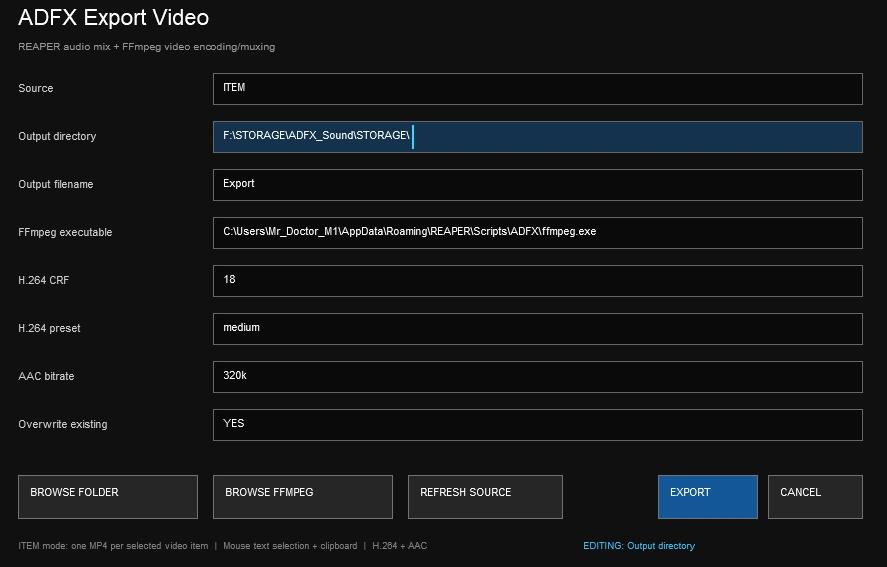
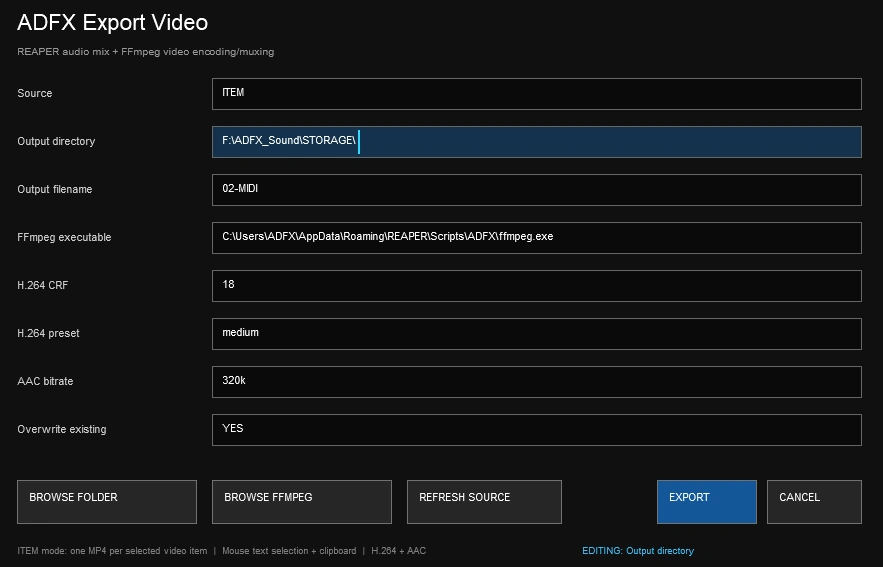
Image render path update

diff --git a/about.html b/about.html
@@ -91,15 +91,16 @@
                                 <div class="row sqs-row">
                                     <div class="col sqs-col-9 span-9">
                                         <div class="sqs-block image-block sqs-block-image" data-aspect-ratio="1.2687427912341407" id="block-yui_3_17_2_1_1664452630333_6125">
-<div class="sqs-block-content">
-  <div class="image-block-outer-wrapper layout-caption-below design-layout-inline combination-animation-none individual-animation-none individual-text-animation-none">
-    <figure class="sqs-block-image-figure intrinsic" style="max-width:1377px;">
-      <div class="image-block-wrapper" style="position:relative; overflow:hidden; padding-bottom:1.2687427997589111%;">
-        <img src="Resources/brushsmear-narrow-v6-copy.webp" alt="" width="1377" height="21" loading="lazy" decoding="async" style="display:block; width:100%; height:100%; object-fit:cover">
-      </div>
-    </figure>
-  </div>
-</div></div>
+                                            <div class="sqs-block-content">
+                                                <div class="image-block-outer-wrapper layout-caption-below design-layout-inline combination-animation-none individual-animation-none individual-text-animation-none">
+                                                    <figure class="sqs-block-image-figure intrinsic" style="max-width:1377px;">
+                                                        <div class="image-block-wrapper" style="position:relative; overflow:hidden; padding-bottom:1.2687427997589111%;">
+                                                            <img src="Resources/brushsmear-narrow-v6-copy.webp" alt="" width="1377" height="21" loading="lazy" decoding="async" style="display:block; width:100%; height:100%; object-fit:cover">
+                                                        </div>
+                                                    </figure>
+                                                </div>
+                                            </div>
+                                        </div>
                                         <div class="sqs-block html-block sqs-block-html" data-border-radii="&#123;&quot;topLeft&quot;:&#123;&quot;unit&quot;:&quot;px&quot;,&quot;value&quot;:0.0&#125;,&quot;topRight&quot;:&#123;&quot;unit&quot;:&quot;px&quot;,&quot;value&quot;:0.0&#125;,&quot;bottomLeft&quot;:&#123;&quot;unit&quot;:&quot;px&quot;,&quot;value&quot;:0.0&#125;,&quot;bottomRight&quot;:&#123;&quot;unit&quot;:&quot;px&quot;,&quot;value&quot;:0.0&#125;&#125;" id="block-yui_3_17_2_1_1664131710108_14342">
                                             <div class="sqs-block-content">
                                                 <div class="sqs-html-content" data-sqsp-text-block-content>
@@ -152,7 +153,7 @@
                     image-slide-anchor
                     
                     content-fill
-                  ">  <img style="position:absolute;top:0;left:0;width:100%;height:100%;object-fit:cover;object-position:50.0000% 50.0000%" src="Resources/kf3-horizontal-1920x1080.webp" loading="lazy" class="thumb-image loaded" elementtiming="system-gallery-block-grid" data-src="Resources/kf3-horizontal-1920x1080.webp" data-image="Resources/kf3-horizontal-1920x1080.webp" data-image-dimensions="500x281" data-image-focal-point="0.5,0.5" alt="KF3_Horizontal_1920x1080.jpg" data-load="true" data-image-id="67c92f0f5fa70301e23f630e" data-type="image"/> </a>
+                  "> <img style="position:absolute;top:0;left:0;width:100%;height:100%;object-fit:cover;object-position:50.0000% 50.0000%" src="Resources/kf3-horizontal-1920x1080.webp" loading="lazy" class="thumb-image loaded" elementtiming="system-gallery-block-grid" data-src="Resources/kf3-horizontal-1920x1080.webp" data-image="Resources/kf3-horizontal-1920x1080.webp" data-image-dimensions="500x281" data-image-focal-point="0.5,0.5" alt="KF3_Horizontal_1920x1080.jpg" data-load="true" data-image-id="67c92f0f5fa70301e23f630e" data-type="image"/> </a>
                                                             </div>
                                                         </div>
                                                         <div class="slide sqs-gallery-design-grid-slide" data-type="image" data-animation-role="image">
@@ -161,7 +162,7 @@
                     image-slide-anchor
                     
                     content-fill
-                  ">  <img style="position:absolute;top:0;left:0;width:100%;height:100%;object-fit:cover;object-position:50.0000% 27.2714%" src="Resources/maneater-horizontal-1920x1080.webp" loading="lazy" class="thumb-image loaded" elementtiming="system-gallery-block-grid" data-src="Resources/maneater-horizontal-1920x1080.webp" data-image="Resources/maneater-horizontal-1920x1080.webp" data-image-dimensions="1920x1080" data-image-focal-point="0.5,0.44107142857142856" alt="ManEater_Horizontal_1920x1080.jpg" data-load="true" data-image-id="5d005d4c26b4cb0001306e15" data-type="image"/> </a>
+                  "> <img style="position:absolute;top:0;left:0;width:100%;height:100%;object-fit:cover;object-position:50.0000% 27.2714%" src="Resources/maneater-horizontal-1920x1080.webp" loading="lazy" class="thumb-image loaded" elementtiming="system-gallery-block-grid" data-src="Resources/maneater-horizontal-1920x1080.webp" data-image="Resources/maneater-horizontal-1920x1080.webp" data-image-dimensions="1920x1080" data-image-focal-point="0.5,0.44107142857142856" alt="ManEater_Horizontal_1920x1080.jpg" data-load="true" data-image-id="5d005d4c26b4cb0001306e15" data-type="image"/> </a>
                                                             </div>
                                                         </div>
                                                         <div class="slide sqs-gallery-design-grid-slide" data-type="image" data-animation-role="image">
@@ -170,7 +171,7 @@
                     image-slide-anchor
                     
                     content-fill
-                  ">  <img style="position:absolute;top:0;left:0;width:100%;height:100%;object-fit:cover;object-position:50.0000% 100.0000%" src="Resources/image-asset.webp" loading="lazy" class="thumb-image loaded" elementtiming="system-gallery-block-grid" data-src="Resources/image-asset.webp" data-image="Resources/image-asset.webp" data-image-dimensions="1200x630" data-image-focal-point="0.5080645161290323,0.7471153846153846" alt="" data-load="true" data-image-id="615d1b1f2bf795313387ee12" data-type="image"/> </a>
+                  "> <img style="position:absolute;top:0;left:0;width:100%;height:100%;object-fit:cover;object-position:50.0000% 100.0000%" src="Resources/image-asset.webp" loading="lazy" class="thumb-image loaded" elementtiming="system-gallery-block-grid" data-src="Resources/image-asset.webp" data-image="Resources/image-asset.webp" data-image-dimensions="1200x630" data-image-focal-point="0.5080645161290323,0.7471153846153846" alt="" data-load="true" data-image-id="615d1b1f2bf795313387ee12" data-type="image"/> </a>
                                                             </div>
                                                         </div>
                                                         <div class="slide sqs-gallery-design-grid-slide" data-type="image" data-animation-role="image">
@@ -179,7 +180,7 @@
                     image-slide-anchor
                     
                     content-fill
-                  ">  <img style="position:absolute;top:0;left:0;width:100%;height:100%;object-fit:cover;object-position:50.0000% 89.6168%" src="Resources/fnv-1.webp" loading="lazy" class="thumb-image loaded" elementtiming="system-gallery-block-grid" data-src="Resources/fnv-1.webp" data-image="Resources/fnv-1.webp" data-image-dimensions="2000x1086" data-image-focal-point="0.75,0.592288572396805" alt="fnv_1.jpg" data-load="true" data-image-id="5a5d2058c83025289abe0c3c" data-type="image"/> </a>
+                  "> <img style="position:absolute;top:0;left:0;width:100%;height:100%;object-fit:cover;object-position:50.0000% 89.6168%" src="Resources/fnv-1.webp" loading="lazy" class="thumb-image loaded" elementtiming="system-gallery-block-grid" data-src="Resources/fnv-1.webp" data-image="Resources/fnv-1.webp" data-image-dimensions="2000x1086" data-image-focal-point="0.75,0.592288572396805" alt="fnv_1.jpg" data-load="true" data-image-id="5a5d2058c83025289abe0c3c" data-type="image"/> </a>
                                                             </div>
                                                         </div>
                                                         <div class="slide sqs-gallery-design-grid-slide" data-type="image" data-animation-role="image">
@@ -188,7 +189,7 @@
                     image-slide-anchor
                     
                     content-fill
-                  ">  <img style="position:absolute;top:0;left:0;width:100%;height:100%;object-fit:cover;object-position:50.0000% 43.8013%" src="Resources/ds3-w-logo.webp" loading="lazy" class="thumb-image loaded" elementtiming="system-gallery-block-grid" data-src="Resources/ds3-w-logo.webp" data-image="Resources/ds3-w-logo.webp" data-image-dimensions="1920x1080" data-image-focal-point="0.782258064516129,0.48392857142857143" alt="ds3_w_logo.jpg" data-load="true" data-image-id="5a5eaac9f9619acff1494751" data-type="image"/> </a>
+                  "> <img style="position:absolute;top:0;left:0;width:100%;height:100%;object-fit:cover;object-position:50.0000% 43.8013%" src="Resources/ds3-w-logo.webp" loading="lazy" class="thumb-image loaded" elementtiming="system-gallery-block-grid" data-src="Resources/ds3-w-logo.webp" data-image="Resources/ds3-w-logo.webp" data-image-dimensions="1920x1080" data-image-focal-point="0.782258064516129,0.48392857142857143" alt="ds3_w_logo.jpg" data-load="true" data-image-id="5a5eaac9f9619acff1494751" data-type="image"/> </a>
                                                             </div>
                                                         </div>
                                                         <div class="slide sqs-gallery-design-grid-slide" data-type="image" data-animation-role="image">
@@ -197,7 +198,7 @@
                     image-slide-anchor
                     
                     content-fill
-                  ">  <img style="position:absolute;top:0;left:0;width:100%;height:100%;object-fit:cover;object-position:50.0000% 100.0000%" src="Resources/strider-w-logo.webp" loading="lazy" class="thumb-image loaded" elementtiming="system-gallery-block-grid" data-src="Resources/strider-w-logo.webp" data-image="Resources/strider-w-logo.webp" data-image-dimensions="1920x1080" data-image-focal-point="0.5161290322580645,0.6410714285714286" alt="strider w logo.jpg" data-load="true" data-image-id="5a5eaa5324a6940b31b7ec67" data-type="image"/> </a>
+                  "> <img style="position:absolute;top:0;left:0;width:100%;height:100%;object-fit:cover;object-position:50.0000% 100.0000%" src="Resources/strider-w-logo.webp" loading="lazy" class="thumb-image loaded" elementtiming="system-gallery-block-grid" data-src="Resources/strider-w-logo.webp" data-image="Resources/strider-w-logo.webp" data-image-dimensions="1920x1080" data-image-focal-point="0.5161290322580645,0.6410714285714286" alt="strider w logo.jpg" data-load="true" data-image-id="5a5eaa5324a6940b31b7ec67" data-type="image"/> </a>
                                                             </div>
                                                         </div>
                                                         <div class="slide sqs-gallery-design-grid-slide" data-type="image" data-animation-role="image">
@@ -206,7 +207,7 @@
                     image-slide-anchor
                     
                     content-fill
-                  ">  <img style="position:absolute;top:0;left:0;width:100%;height:100%;object-fit:cover;object-position:50.0000% 0.0000%" src="Resources/sab.webp" loading="lazy" class="thumb-image loaded" elementtiming="system-gallery-block-grid" data-src="Resources/sab.webp" data-image="Resources/sab.webp" data-image-dimensions="1334x617" data-image-focal-point="0.47580645161290325,0.2050438596491228" alt="sab.jpg" data-load="true" data-image-id="5a5d22804192027c06716b6d" data-type="image"/> </a>
+                  "> <img style="position:absolute;top:0;left:0;width:100%;height:100%;object-fit:cover;object-position:50.0000% 0.0000%" src="Resources/sab.webp" loading="lazy" class="thumb-image loaded" elementtiming="system-gallery-block-grid" data-src="Resources/sab.webp" data-image="Resources/sab.webp" data-image-dimensions="1334x617" data-image-focal-point="0.47580645161290325,0.2050438596491228" alt="sab.jpg" data-load="true" data-image-id="5a5d22804192027c06716b6d" data-type="image"/> </a>
                                                             </div>
                                                         </div>
                                                         <div class="slide sqs-gallery-design-grid-slide" data-type="image" data-animation-role="image">
@@ -215,7 +216,7 @@
                     image-slide-anchor
                     
                     content-fill
-                  ">  <img style="position:absolute;top:0;left:0;width:100%;height:100%;object-fit:cover;object-position:50.0000% 100.0000%" src="Resources/mercs-w-logo.webp" loading="lazy" class="thumb-image loaded" elementtiming="system-gallery-block-grid" data-src="Resources/mercs-w-logo.webp" data-image="Resources/mercs-w-logo.webp" data-image-dimensions="1280x853" data-image-focal-point="0.20967741935483872,0.8698551829268293" alt="mercs w logo.jpg" data-load="true" data-image-id="5a5ea18b24a6940b31b5e3ca" data-type="image"/> </a>
+                  "> <img style="position:absolute;top:0;left:0;width:100%;height:100%;object-fit:cover;object-position:50.0000% 100.0000%" src="Resources/mercs-w-logo.webp" loading="lazy" class="thumb-image loaded" elementtiming="system-gallery-block-grid" data-src="Resources/mercs-w-logo.webp" data-image="Resources/mercs-w-logo.webp" data-image-dimensions="1280x853" data-image-focal-point="0.20967741935483872,0.8698551829268293" alt="mercs w logo.jpg" data-load="true" data-image-id="5a5ea18b24a6940b31b5e3ca" data-type="image"/> </a>
                                                             </div>
                                                         </div>
                                                         <div class="slide sqs-gallery-design-grid-slide" data-type="image" data-animation-role="image">
@@ -224,7 +225,7 @@
                     image-slide-anchor
                     
                     content-fill
-                  ">  <img style="position:absolute;top:0;left:0;width:100%;height:100%;object-fit:cover;object-position:50.0000% 0.0000%" src="Resources/rising-storm-2-logo-1024x576.webp" loading="lazy" class="thumb-image loaded" elementtiming="system-gallery-block-grid" data-src="Resources/rising-storm-2-logo-1024x576.webp" data-image="Resources/rising-storm-2-logo-1024x576.webp" data-image-dimensions="1024x576" data-image-focal-point="0.4838709677419355,0.2982142857142857" alt="rising-storm-2-logo-1024x576.jpg" data-load="true" data-image-id="67c92fecb18be145bbe1c6d7" data-type="image"/> </a>
+                  "> <img style="position:absolute;top:0;left:0;width:100%;height:100%;object-fit:cover;object-position:50.0000% 0.0000%" src="Resources/rising-storm-2-logo-1024x576.webp" loading="lazy" class="thumb-image loaded" elementtiming="system-gallery-block-grid" data-src="Resources/rising-storm-2-logo-1024x576.webp" data-image="Resources/rising-storm-2-logo-1024x576.webp" data-image-dimensions="1024x576" data-image-focal-point="0.4838709677419355,0.2982142857142857" alt="rising-storm-2-logo-1024x576.jpg" data-load="true" data-image-id="67c92fecb18be145bbe1c6d7" data-type="image"/> </a>
                                                             </div>
                                                         </div>
                                                         <div class="slide sqs-gallery-design-grid-slide" data-type="image" data-animation-role="image">
@@ -233,7 +234,7 @@
                     image-slide-anchor
                     
                     content-fill
-                  ">  <img style="position:absolute;top:0;left:0;width:100%;height:100%;object-fit:cover;object-position:50.0000% 50.0000%" src="Resources/deceiveinc-horizontal-1920x1080.webp" loading="lazy" class="thumb-image loaded" elementtiming="system-gallery-block-grid" data-src="Resources/deceiveinc-horizontal-1920x1080.webp" data-image="Resources/deceiveinc-horizontal-1920x1080.webp" data-image-dimensions="500x281" data-image-focal-point="0.5,0.5" alt="DeceiveInc_Horizontal_1920x1080.jpg" data-load="true" data-image-id="67c92eac6b78fa0f9e8c24d0" data-type="image"/> </a>
+                  "> <img style="position:absolute;top:0;left:0;width:100%;height:100%;object-fit:cover;object-position:50.0000% 50.0000%" src="Resources/deceiveinc-horizontal-1920x1080.webp" loading="lazy" class="thumb-image loaded" elementtiming="system-gallery-block-grid" data-src="Resources/deceiveinc-horizontal-1920x1080.webp" data-image="Resources/deceiveinc-horizontal-1920x1080.webp" data-image-dimensions="500x281" data-image-focal-point="0.5,0.5" alt="DeceiveInc_Horizontal_1920x1080.jpg" data-load="true" data-image-id="67c92eac6b78fa0f9e8c24d0" data-type="image"/> </a>
                                                             </div>
                                                         </div>
                                                         <div class="slide sqs-gallery-design-grid-slide" data-type="image" data-animation-role="image">
@@ -242,7 +243,7 @@
                     image-slide-anchor
                     
                     content-fill
-                  ">  <img style="position:absolute;top:0;left:0;width:100%;height:100%;object-fit:cover;object-position:50.0000% 39.4130%" src="Resources/ap.webp" loading="lazy" class="thumb-image loaded" elementtiming="system-gallery-block-grid" data-src="Resources/ap.webp" data-image="Resources/ap.webp" data-image-dimensions="1379x775" data-image-focal-point="0.7422680412371134,0.4726204128440367" alt="ap.jpg" data-load="true" data-image-id="5a5d2054085229750fd9307a" data-type="image"/> </a>
+                  "> <img style="position:absolute;top:0;left:0;width:100%;height:100%;object-fit:cover;object-position:50.0000% 39.4130%" src="Resources/ap.webp" loading="lazy" class="thumb-image loaded" elementtiming="system-gallery-block-grid" data-src="Resources/ap.webp" data-image="Resources/ap.webp" data-image-dimensions="1379x775" data-image-focal-point="0.7422680412371134,0.4726204128440367" alt="ap.jpg" data-load="true" data-image-id="5a5d2054085229750fd9307a" data-type="image"/> </a>
                                                             </div>
                                                         </div>
                                                         <div class="slide sqs-gallery-design-grid-slide" data-type="image" data-animation-role="image">
@@ -251,7 +252,7 @@
                     image-slide-anchor
                     
                     content-fill
-                  ">  <img style="position:absolute;top:0;left:0;width:100%;height:100%;object-fit:cover;object-position:50.0000% 100.0000%" src="Resources/pillars.webp" loading="lazy" class="thumb-image loaded" elementtiming="system-gallery-block-grid" data-src="Resources/pillars.webp" data-image="Resources/pillars.webp" data-image-dimensions="1920x1080" data-image-focal-point="0.49193548387096775,0.7553571428571428" alt="pillars.jpg" data-load="true" data-image-id="5a5d23ce0d9297bb7cbb7b22" data-type="image"/> </a>
+                  "> <img style="position:absolute;top:0;left:0;width:100%;height:100%;object-fit:cover;object-position:50.0000% 100.0000%" src="Resources/pillars.webp" loading="lazy" class="thumb-image loaded" elementtiming="system-gallery-block-grid" data-src="Resources/pillars.webp" data-image="Resources/pillars.webp" data-image-dimensions="1920x1080" data-image-focal-point="0.49193548387096775,0.7553571428571428" alt="pillars.jpg" data-load="true" data-image-id="5a5d23ce0d9297bb7cbb7b22" data-type="image"/> </a>
                                                             </div>
                                                         </div>
                                                         <div class="slide sqs-gallery-design-grid-slide" data-type="image" data-animation-role="image">
@@ -260,7 +261,7 @@
                     image-slide-anchor
                     
                     content-fill
-                  ">  <img style="position:absolute;top:0;left:0;width:100%;height:100%;object-fit:cover;object-position:50.0000% 100.0000%" src="Resources/battleship-w-logo.webp" loading="lazy" class="thumb-image loaded" elementtiming="system-gallery-block-grid" data-src="Resources/battleship-w-logo.webp" data-image="Resources/battleship-w-logo.webp" data-image-dimensions="1920x1080" data-image-focal-point="0.8145161290322581,0.8982142857142857" alt="battleship w logo.jpg" data-load="true" data-image-id="5a5ea527c8302548e7f7c0ad" data-type="image"/> </a>
+                  "> <img style="position:absolute;top:0;left:0;width:100%;height:100%;object-fit:cover;object-position:50.0000% 100.0000%" src="Resources/battleship-w-logo.webp" loading="lazy" class="thumb-image loaded" elementtiming="system-gallery-block-grid" data-src="Resources/battleship-w-logo.webp" data-image="Resources/battleship-w-logo.webp" data-image-dimensions="1920x1080" data-image-focal-point="0.8145161290322581,0.8982142857142857" alt="battleship w logo.jpg" data-load="true" data-image-id="5a5ea527c8302548e7f7c0ad" data-type="image"/> </a>
                                                             </div>
                                                         </div>
                                                         <div class="slide sqs-gallery-design-grid-slide" data-type="image" data-animation-role="image">
@@ -269,7 +270,7 @@
                     image-slide-anchor
                     
                     content-fill
-                  ">  <img style="position:absolute;top:0;left:0;width:100%;height:100%;object-fit:cover;object-position:50.0000% 100.0000%" src="Resources/breakaway-2.webp" loading="lazy" class="thumb-image loaded" elementtiming="system-gallery-block-grid" data-src="Resources/breakaway-2.webp" data-image="Resources/breakaway-2.webp" data-image-dimensions="1920x1080" data-image-focal-point="0.8951612903225806,0.7125" alt="Breakaway 2.jpg" data-load="true" data-image-id="5a5d21c8c83025289abe6468" data-type="image"/> </a>
+                  "> <img style="position:absolute;top:0;left:0;width:100%;height:100%;object-fit:cover;object-position:50.0000% 100.0000%" src="Resources/breakaway-2.webp" loading="lazy" class="thumb-image loaded" elementtiming="system-gallery-block-grid" data-src="Resources/breakaway-2.webp" data-image="Resources/breakaway-2.webp" data-image-dimensions="1920x1080" data-image-focal-point="0.8951612903225806,0.7125" alt="Breakaway 2.jpg" data-load="true" data-image-id="5a5d21c8c83025289abe6468" data-type="image"/> </a>
                                                             </div>
                                                         </div>
                                                         <div class="slide sqs-gallery-design-grid-slide" data-type="image" data-animation-role="image">
@@ -278,7 +279,7 @@
                     image-slide-anchor
                     
                     content-fill
-                  ">  <img style="position:absolute;top:0;left:0;width:100%;height:100%;object-fit:cover;object-position:50.0000% 0.0000%" src="Resources/lotr.webp" loading="lazy" class="thumb-image loaded" elementtiming="system-gallery-block-grid" data-src="Resources/lotr.webp" data-image="Resources/lotr.webp" data-image-dimensions="1280x720" data-image-focal-point="0.20161290322580644,0.1125" alt="lotr.jpg" data-load="true" data-image-id="5a5d2215652dea17cc5c81d5" data-type="image"/> </a>
+                  "> <img style="position:absolute;top:0;left:0;width:100%;height:100%;object-fit:cover;object-position:50.0000% 0.0000%" src="Resources/lotr.webp" loading="lazy" class="thumb-image loaded" elementtiming="system-gallery-block-grid" data-src="Resources/lotr.webp" data-image="Resources/lotr.webp" data-image-dimensions="1280x720" data-image-focal-point="0.20161290322580644,0.1125" alt="lotr.jpg" data-load="true" data-image-id="5a5d2215652dea17cc5c81d5" data-type="image"/> </a>
                                                             </div>
                                                         </div>
                                                         <div class="slide sqs-gallery-design-grid-slide" data-type="image" data-animation-role="image">
@@ -287,7 +288,7 @@
                     image-slide-anchor
                     
                     content-fill
-                  ">  <img style="position:absolute;top:0;left:0;width:100%;height:100%;object-fit:cover;object-position:50.0000% 50.0000%" src="Resources/ufos.webp" loading="lazy" class="thumb-image loaded" elementtiming="system-gallery-block-grid" data-src="Resources/ufos.webp" data-image="Resources/ufos.webp" data-image-dimensions="1024x500" data-image-focal-point="0.5,0.5" alt="UFOs.png" data-load="true" data-image-id="67c931297d18e904c7bef178" data-type="image"/> </a>
+                  "> <img style="position:absolute;top:0;left:0;width:100%;height:100%;object-fit:cover;object-position:50.0000% 50.0000%" src="Resources/ufos.webp" loading="lazy" class="thumb-image loaded" elementtiming="system-gallery-block-grid" data-src="Resources/ufos.webp" data-image="Resources/ufos.webp" data-image-dimensions="1024x500" data-image-focal-point="0.5,0.5" alt="UFOs.png" data-load="true" data-image-id="67c931297d18e904c7bef178" data-type="image"/> </a>
                                                             </div>
                                                         </div>
                                                     </div>
@@ -343,15 +344,16 @@
                                             </div>
                                         </div>
                                         <div class="sqs-block image-block sqs-block-image" id="block-yui_3_17_2_1_1687230245630_20988">
-<div class="sqs-block-content">
-  <div class="image-block-outer-wrapper layout-caption-below design-layout-inline combination-animation-none individual-animation-none individual-text-animation-none">
-    <figure class="sqs-block-image-figure intrinsic" style="max-width:2396px;">
-      <div class="image-block-wrapper" style="position:relative; overflow:hidden; padding-bottom:53.005008697509766%;">
-        <img src="Resources/untitled-1-154-1edit.webp" alt="" width="2000" height="1060" loading="lazy" decoding="async" style="display:block; width:100%; height:100%; object-fit:cover">
-      </div>
-    </figure>
-  </div>
-</div></div>
+                                            <div class="sqs-block-content">
+                                                <div class="image-block-outer-wrapper layout-caption-below design-layout-inline combination-animation-none individual-animation-none individual-text-animation-none">
+                                                    <figure class="sqs-block-image-figure intrinsic" style="max-width:2396px;">
+                                                        <div class="image-block-wrapper" style="position:relative; overflow:hidden; padding-bottom:53.005008697509766%;">
+                                                            <img src="Resources/untitled-1-154-1edit.webp" alt="" width="2000" height="1060" loading="lazy" decoding="async" style="display:block; width:100%; height:100%; object-fit:cover">
+                                                        </div>
+                                                    </figure>
+                                                </div>
+                                            </div>
+                                        </div>
                                         <div class="sqs-block website-component-block sqs-block-website-component sqs-block-horizontalrule horizontalrule-block" id="block-yui_3_17_2_1_1741238691122_19190">
                                             <div class="sqs-block-content">
                                                 <div>

diff --git a/reaper-scripts.html b/reaper-scripts.html
@@ -120,7 +120,7 @@
                                             <div class="sqs-block-content">
                                                 <div class="sqs-html-content" data-sqsp-text-block-content="">
                                                     <p class="" style="white-space:pre-wrap;"><strong>ADFX_Helper; render video from selected item.lua</strong></p>
-                                                    <p class="" style="white-space:pre-wrap;">Render video from selected item(s) using FFPMEG. </p>
+                                                    <p class="" style="white-space:pre-wrap;">Render video(s) from selected item(s) using FFPMEG. </p>
                                                     <p style="white-space:pre-wrap;" class=""></p>
                                                 </div>
                                             </div>
@@ -129,7 +129,7 @@
                                             <div class="sqs-block-content">
                                                 <div class="image-block-outer-wrapper layout-caption-below design-layout-inline combination-animation-none individual-animation-none individual-text-animation-none">
                                                     <figure class="sqs-block-image-figure intrinsic" style="max-width:1657px;">
-                                                        <div class="image-block-wrapper" style="position:relative; overflow:hidden; padding-bottom:55.40132522583008%;">
+                                                        <div class="image-block-wrapper" style="position:relative; overflow:hidden; padding-bottom:63.0%;">
                                                             <img src="Resources/ADFX_RenderVideo.webp" alt="" width="1657" height="918" loading="lazy" decoding="async" style="display:block; width:100%; height:100%; object-fit:cover">
                                                         </div>
                                                     </figure>
@@ -140,7 +140,7 @@
                                             <div class="sqs-block-content">
                                                 <div class="sqs-html-content" data-sqsp-text-block-content="">
                                                     <p class="" style="white-space:pre-wrap;"><span style="letter-spacing: 0px;">FFPMEG DOWNLOAD: ffmpeg.org</span></p>
-                                                    <p style="white-space:pre-wrap;" class="">It&apos;s recommended to hardcode the ffmpeg.exe path directly into the script, place a dedicated copy ffmpeg directly in the scripts folder.</p>
+                                                    <p style="white-space:pre-wrap;" class="">It&apos;s recommended to hardcode the ffmpeg.exe path directly into the script + place a dedicated copy ffmpeg directly in the scripts folder.</p>
                                                     <p style="white-space:pre-wrap;" class="">AppData\Roaming\REAPER\Scripts\ADFX</p>
                                                 </div>
                                             </div>
